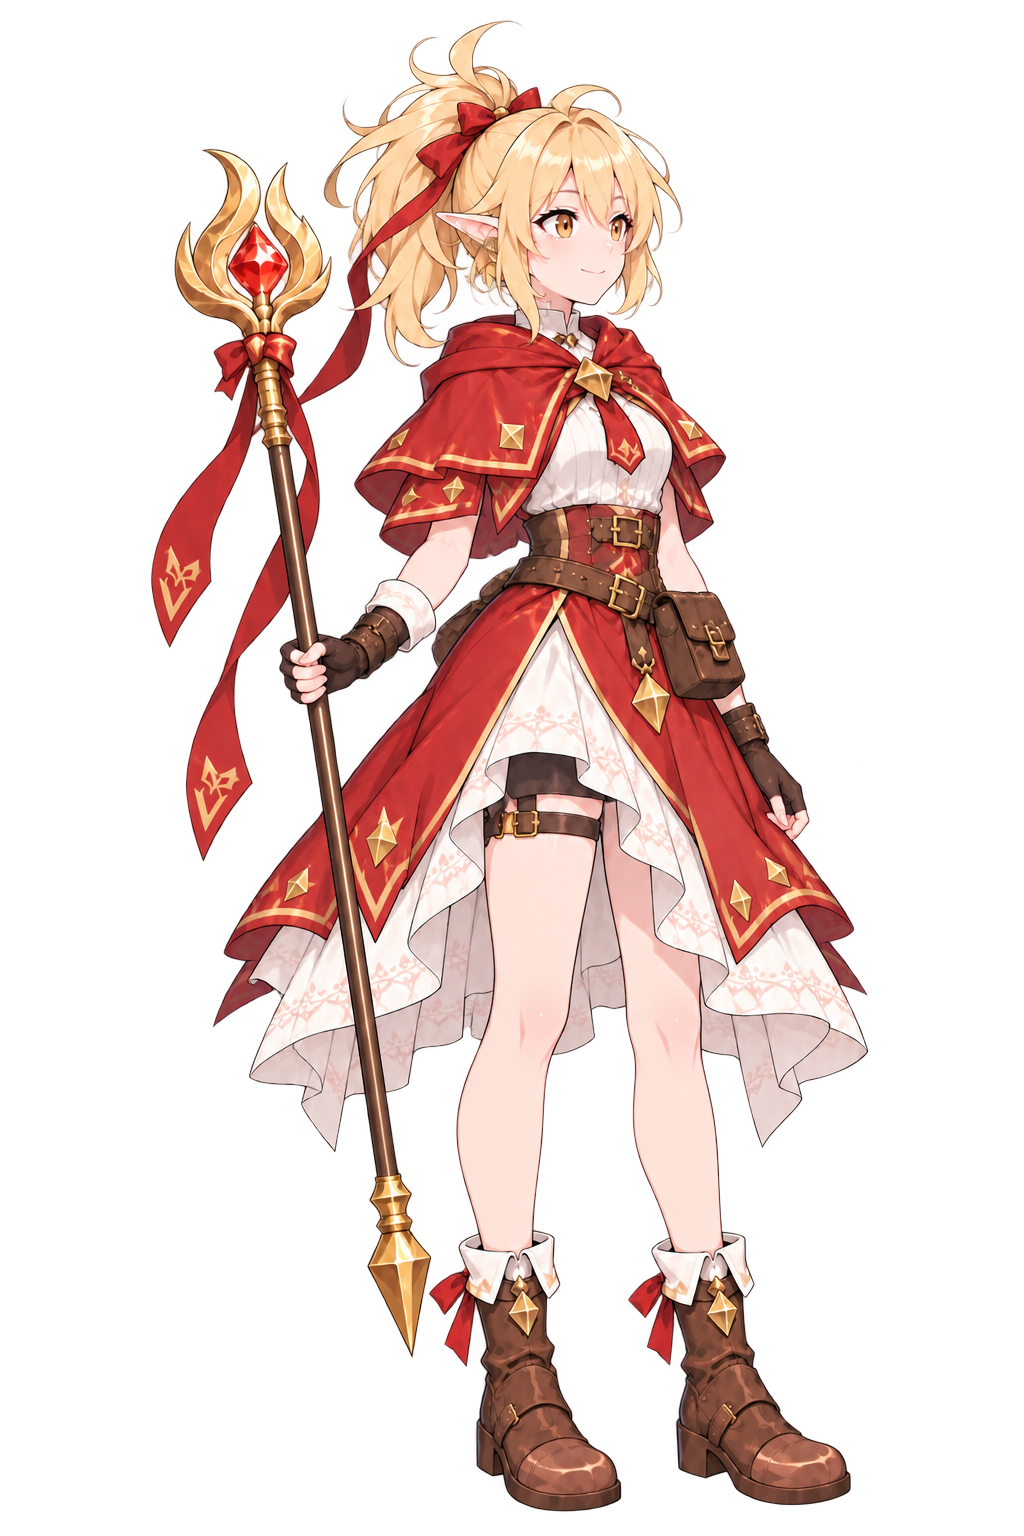
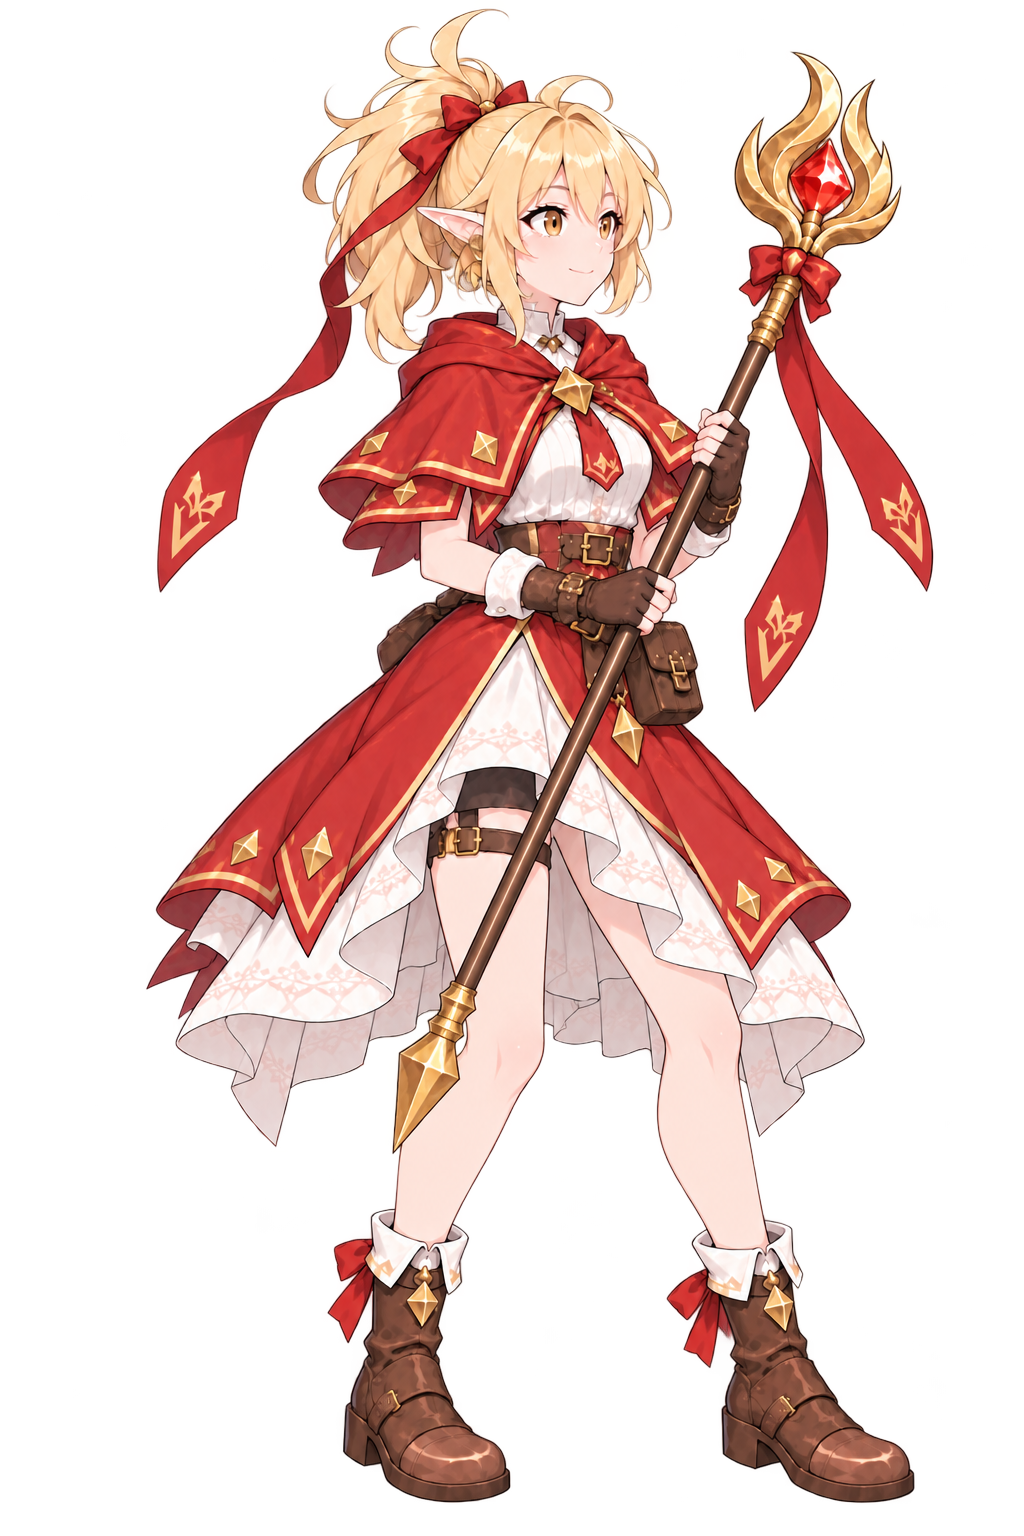
ヒヨの通常立ち絵を支援役の構えに変更

diff --git a/DemoApp/UiKit.cs b/DemoApp/UiKit.cs
@@ -210,7 +210,7 @@ public static class UiKit
         "nomi" => 2.30f,
         "hagi" => 2.55f,
         "vel" => 2.45f,
-        "hiyo" => 1.89f, // 自然な待機絵は頭上の杖の余白がない。旧絵と本体の身長を揃える。
+        "hiyo" => 1.89f, // 支援の構え。旧動作絵と本体の身長を揃える。
         "gan" => 2.85f,
         "yomi" => 2.35f,
         "basa" => 2.55f,
@@ -280,7 +280,7 @@ public static class UiKit
         "nomi" => 0.0430f,
         "hagi" => 0.0534f,
         "vel" => 0.0130f,
-        "hiyo" => 0.0163f,
+        "hiyo" => 0.0215f,
         "gan" => 0.0384f,
         "yomi" => 0.0286f,
         "hota" => 0.0120f,

diff --git a/design/art/hiyo/hiyo-support-ready-v1.md b/design/art/hiyo/hiyo-support-ready-v1.md
@@ -1,0 +1,34 @@
+# ヒヨ：支援役の戦闘待機姿勢 v1
+
+作成: 2026-10-11。Codex組み込みImageGenで、現在の `hiyo_ready_right.png` を参照して生成した透過PNGの試作。
+保存先: `design/art/hiyo/hiyo-support-ready-right-v1.png`。
+採用先: `DemoApp/assets/portraits/battle/hiyo_ready_right.png`（同一PNG）。
+
+元のニュートラル立ち絵は棒立ちに近く、待機モーションを付けにくそうというユーザー評価を受けた案。
+両肘を曲げ、杖を身体の前で両手で支え、足を開いて膝に余裕を持たせる。落ち着いて右側を見ている支援役の戦闘準備姿勢を狙う。
+呼吸に連動した両肩・両腕・杖の揺れと、脚の小さな体重移動へつながる元絵として検討する。
+
+生成した立ち絵だけでは、i2vの動き・顔や装備の保持・ループの品質は判断できない。i2v試作の比較後、ユーザー指示でこの通常立ち絵だけを採用した。
+以前の部分変形v2の接続をゲームから外し、i2vのモーションも未採用。v2ソースは `idle-rig-v2/source/` へ試作用に退避した。
+既存の動作差分は維持。表示高1.89、足元余白0.0215（透明域約33px / 1536px）で接地を合わせる。
+モーションは、この採用画像を元にボルグ・ホタで使ったClaude Code / ComfyUIの方法・フローと比較する予定。
+
+検証: DemoAppビルド成功（警告・エラー0）。`FireCheck.tscn --replay` の2回の再生が `FIRE_CHECK_OK`。
+実ゲーム画面で通常スプライトの画素と採用PNGの一致、試作リグ・待機シェーダーが接続されていないことを確認し `HIYO_SUPPORT_STATIC_OK`。
+
+## 最終プロンプト
+
+```text
+Use case: identity-preserve.
+Asset type: transparent full-body anime fantasy RPG battle-ready idle sprite, ONE pose, proposed new base for idle animation.
+Input image 1 is the edit target and authoritative reference for Hiyo's identity, costume, weapon and drawing style. Change ONLY the stance, arm positions and naturally resulting cloth/hair placement. Preserve her recognizable face, amber eyes, long pointed elf ears, blonde ponytail and red bow, slender proportions, red cape with gold edging and diamond decorations, short white blouse, brown layered belts and pouches, red split overskirt, white patterned layered skirt, thigh strap, gloves and brown boots with red bows. Preserve the SAME long straight brown staff, gold flame-shaped finial surrounding a faceted red gemstone, red bow under the finial, and the small gold pointed end. Do not redesign the staff or clothing.
+
+Primary request: turn her rigid casual standing pose into the calm, lightly engaged READY STANCE of a staff-using SUPPORT MAGE who watches her allies and is prepared to help. This is a restful battle idle key pose. She should look poised and attentive, kind and quietly confident.
+
+POSE: full body and head still in three-quarter view facing SCREEN RIGHT, gaze clearly to the right rather than toward the viewer. Closed mouth, small reassuring smile. Feet comfortably separated in a modest staggered stance: the right-facing lead boot slightly ahead, rear boot a little behind, both soles on the same ground plane. Knees gently flexed, hips carrying balanced weight slightly toward the rear leg, torso upright with a subtle forward readiness, relaxed shoulders. Give her a clear soft bend in elbows and knees, with room for natural breathing and a small weight shift. No perfectly parallel locked legs.
+She holds her staff with BOTH hands lightly in front of and just beside the torso, at two separate grip points near waist and lower chest; elbows soft and naturally bent, forearms anatomically sound. The staff is carried at a mild diagonal toward screen right, its flame finial beside and slightly above her right shoulder, visibly separated from her face, NOT overhead. Its lower pointed end stays near the rear ankle but hovers slightly above the ground, so arms, staff and body can move together during idle. It must be ONE uninterrupted rigid straight shaft with believable hand grips and original full length. Her two hands support its weight, a gentle supportive caster guard rather than a spear fighter. Keep her face, gold chest clasp and overall body silhouette readable. Avoid dense overlapping hands, hair and staff head.
+Ponytail, ribbons, cape and skirt hang mostly by gravity with modest loose curves, appropriate to a resting pose; no storm or dramatic flutter.
+
+Style and framing: faithfully match the reference's clean fine linework, polished soft anime shading, red/gold/brown palette and level of detail. Portrait 1024x1536, one character centered, full hair, weapon and both boots visible with safe margins. Same head-to-body scale as the reference. Actual transparent alpha background including internal gaps; fully opaque character interior. No black/brown gradient background even if hidden RGB is present in the reference. No floor drawing, ground shadow, scene, text, watermark or new props.
+Avoid: raised-staff celebration, active spellcasting, magical effects, fire, aura, glow, staff striking/thrusting, deep combat crouch, running, walking, crossed legs, huge wide stance, angry or shouting face, looking at camera, weapon or costume redesign, extra hands/fingers/limbs, duplicate staff, cropped extremities.
+```
